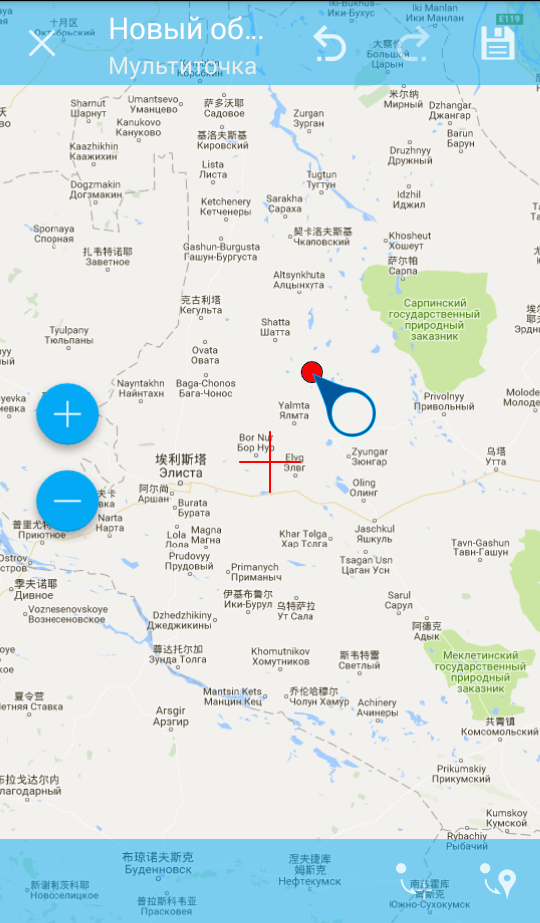
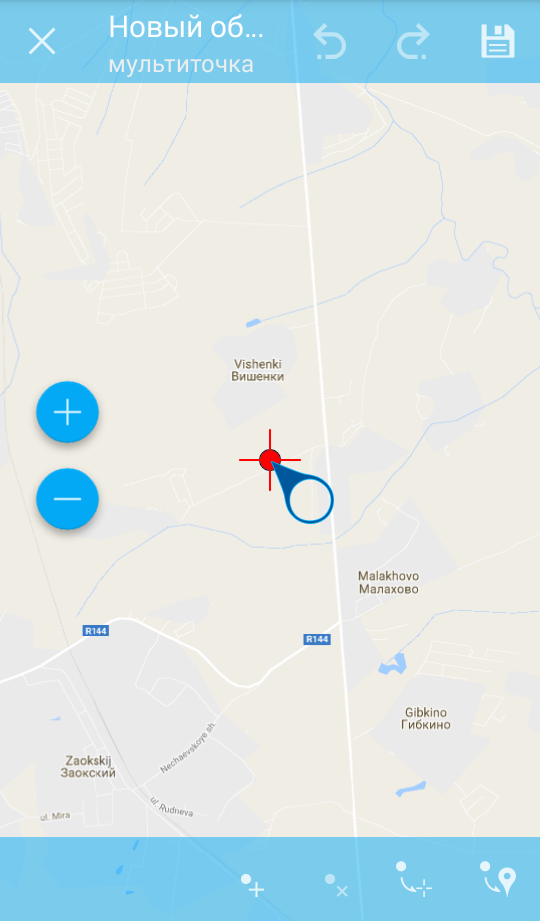
ngmobile

diff --git a/source/editing.rst b/source/editing.rst
@@ -483,14 +483,32 @@
    3 - повтор действия;
    4 - сохранение изменений.
    Слева направо в нижней панели инструментов иконками обозначено: 
-   1 - переместить мультиточку в центр экрана; 
-   2 - переместить мультиточку в текущее местоположение.
+   1 - добавить точку в состав мультиточки;
+   2 - удалить точку из состава мультиточки;
+   3 - переместить мультиточку в центр экрана; 
+   4 - переместить мультиточку в текущее местоположение.
 
 Панель редактирования позволяет удалить все точки из состава мультиточки или 
-выбранную точку. Над выбранной точкой можно выполнять операции:
-    
+выбранную точку. Для того, чтобы удалить точку из состава мультиточки, следует активировать 
+иконку 2 на нижней панели инструментов. Для этого следует воспользоваться иконкой 1 
+на нижней панели инструментов для добавления точки/точек в состав мультиточки. Выбрать 
+ту точку, которую необходимо удалить и нажать на иконку 2 на нижней панели инструментов 
+(см :numref:`ngmobile_creating_multipoint3_pic`)
+
+.. figure:: _static/ngmobile_creating_multipoint3.png
+   :name: ngmobile_creating_multipoint3_pic
+   :align: center
+   :width: 6cm
+
+   Окно в режиме редактирования.
+
+Над выбранной точкой можно выполнять операции:
+
+* удалить точку из состава мультиточки;   
 * переместить в центр экрана;
 * переместить в текущие координаты.
+
+
  
 Кроме того, можно добавить точку к мультиточке (см. :numref:`ngmobile_edit_multipoint_pic` 
 п. 4).    
@@ -571,13 +589,6 @@
 
    Дополнение/изменение геометрии касанием.
  
-
-
-
-
-
-
-
 
 Редактирование мультилинии
 ^^^^^^^^^^^^^^^^^^^^^^^^^^^
